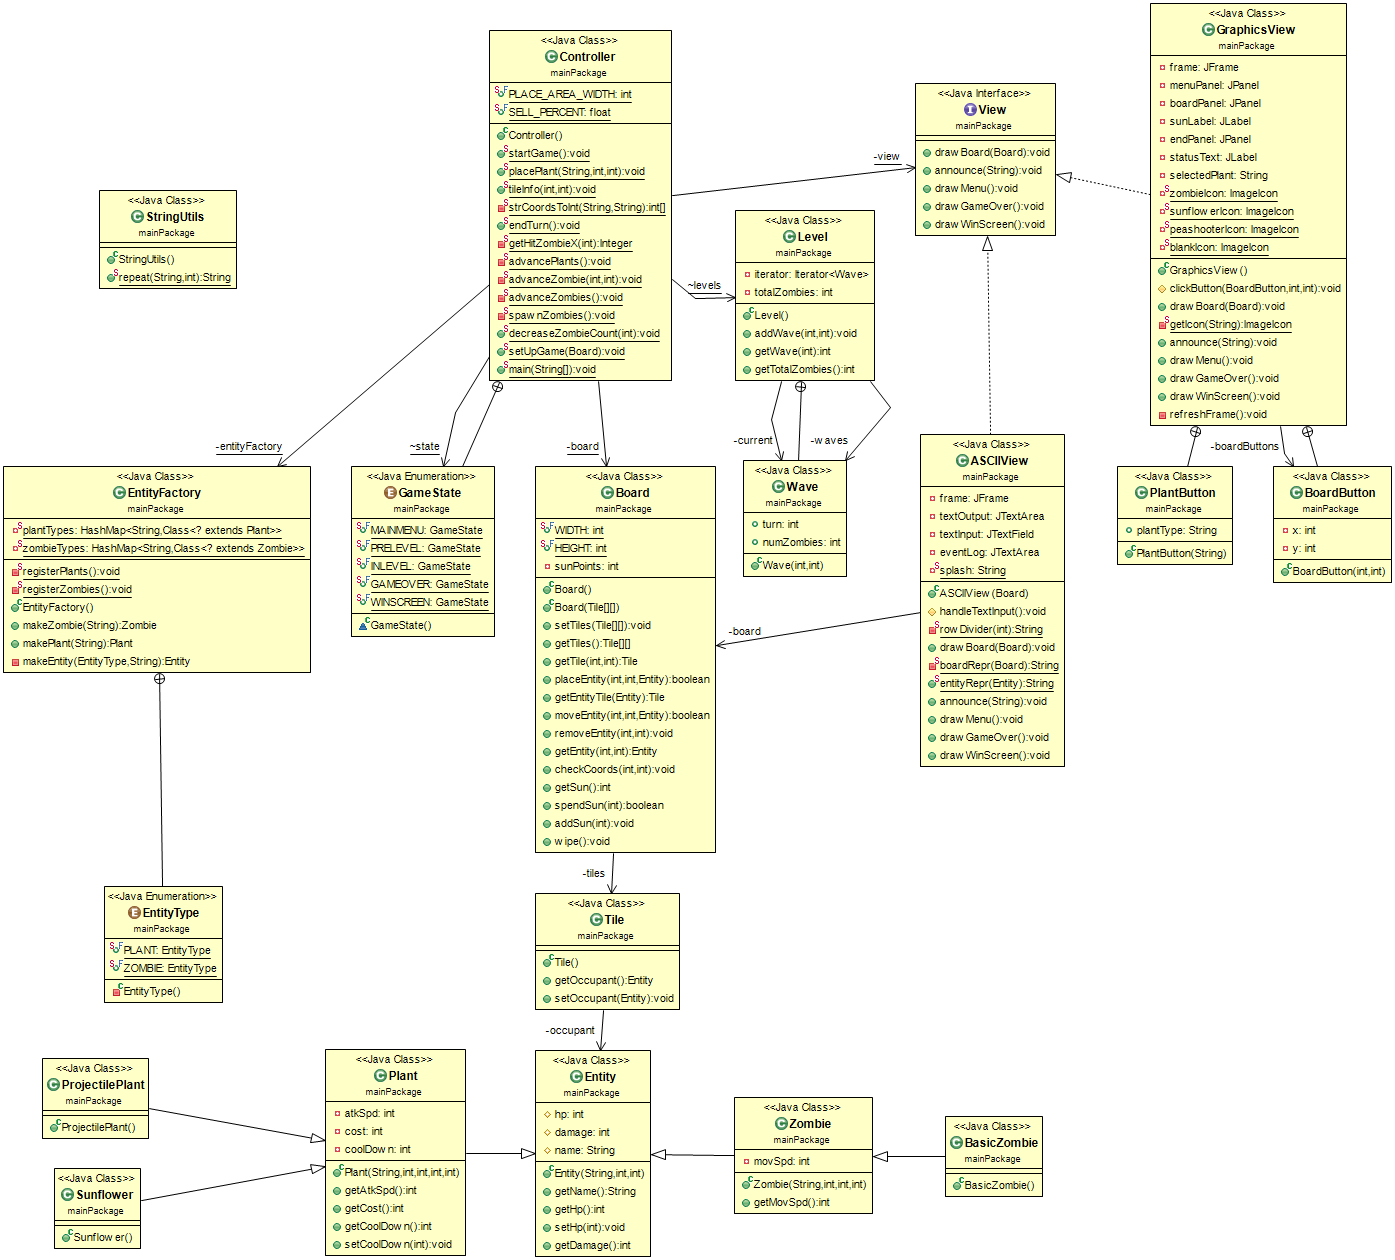
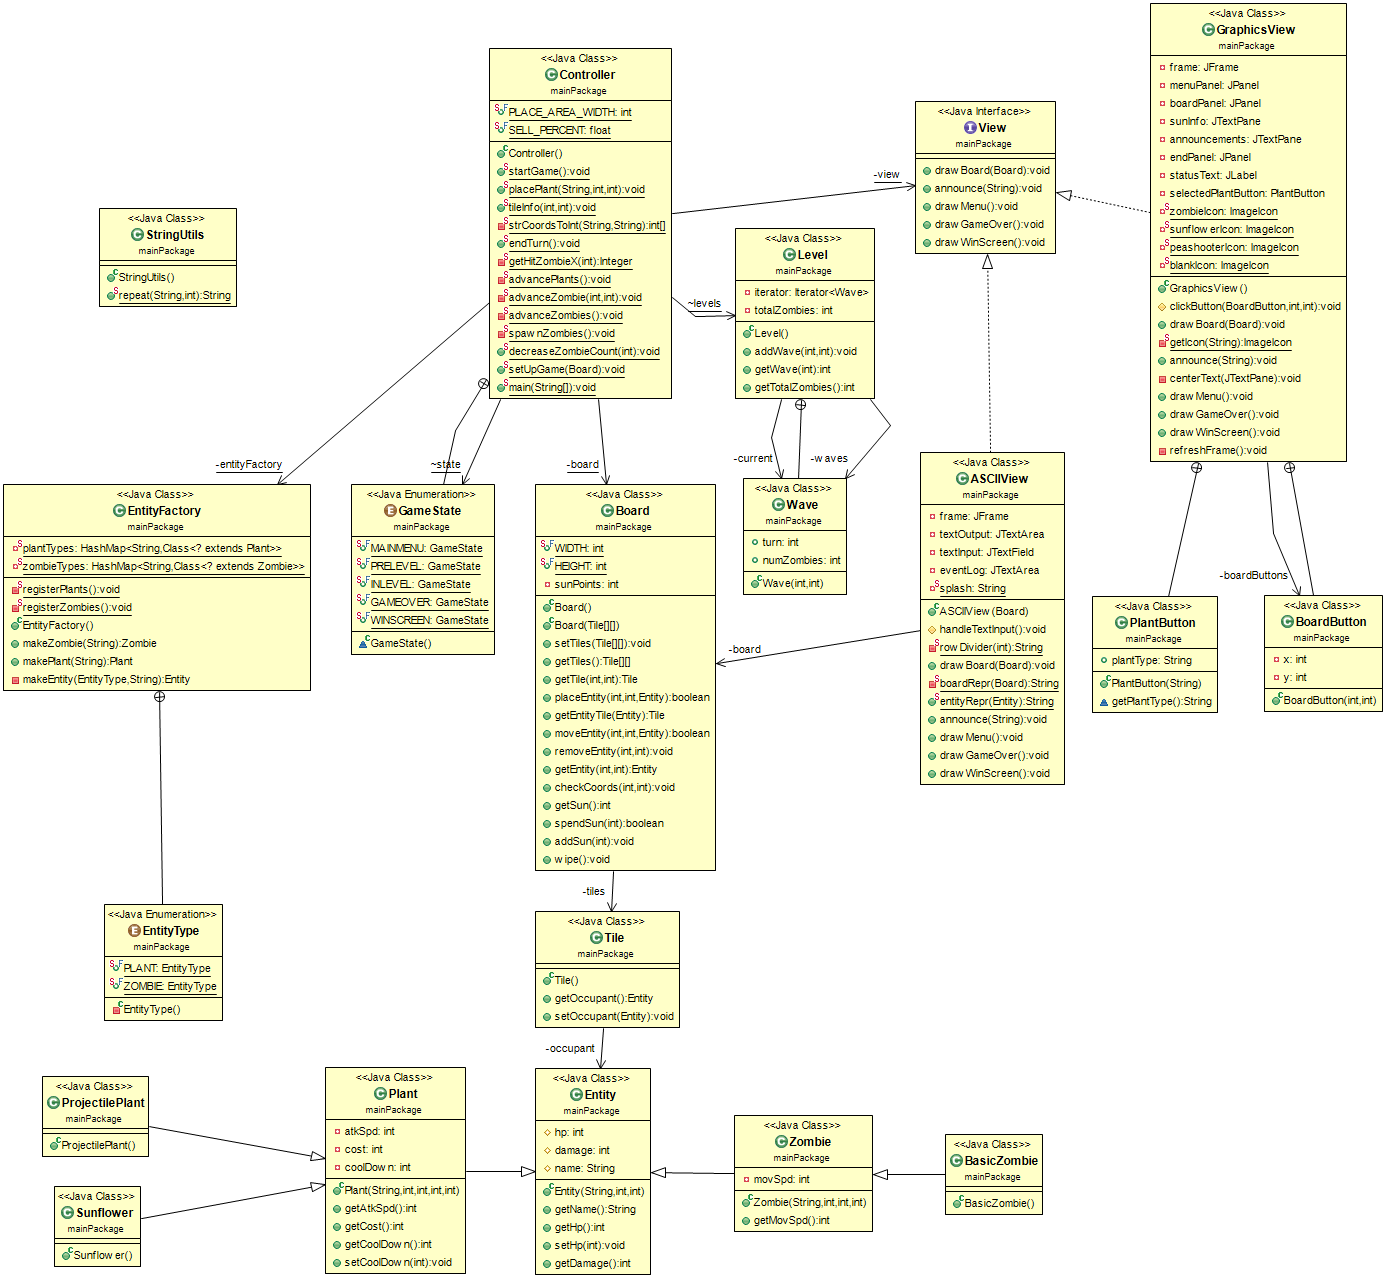
improved GraphicsView

diff --git a/src/mainPackage/GraphicsView.java b/src/mainPackage/GraphicsView.java
@@ -1,12 +1,17 @@
 package mainPackage;
 
 import java.awt.BorderLayout;
+import java.awt.Color;
 import java.awt.Dimension;
 import java.awt.GridLayout;
 import java.awt.event.ActionEvent;
 import java.awt.event.ActionListener;
 
 import javax.swing.*;
+import javax.swing.border.LineBorder;
+import javax.swing.text.SimpleAttributeSet;
+import javax.swing.text.StyleConstants;
+import javax.swing.text.StyledDocument;
 
 public class GraphicsView implements View
 {
@@ -15,11 +20,12 @@ public class GraphicsView implements View
 	
 	private JPanel boardPanel;
 	private BoardButton[][] boardButtons;
-	private JLabel sunLabel;
+	private JTextPane sunInfo;
+	private JTextPane announcements;
 	
 	private JPanel endPanel;
 	private JLabel statusText;
-	private String selectedPlant;
+	private PlantButton selectedPlantButton;
 	
 	private static ImageIcon zombieIcon = new ImageIcon("images/zombie.png");
 	private static ImageIcon sunflowerIcon = new ImageIcon("images/sunflower.png");
@@ -70,6 +76,8 @@ public class GraphicsView implements View
 			}
 			setIcon(GraphicsView.getIcon(plantType));
 			
+			PlantButton thisButton = this;
+			
 			addActionListener(new ActionListener()
 			{
 				
@@ -77,13 +85,24 @@ public class GraphicsView implements View
 				public void actionPerformed(ActionEvent e)
 				{
 					// TODO Auto-generated method stub
-					if (selectedPlant == plantType) {
-						selectedPlant = null;
+					if (selectedPlantButton != null) {
+						selectedPlantButton.setBorder(new LineBorder(Color.GRAY));
+					}
+					if (selectedPlantButton == thisButton) {
+						selectedPlantButton = null;
 					} else {
-						selectedPlant = plantType;
+						selectedPlantButton = thisButton;
+						thisButton.setBorder(BorderFactory.createLineBorder(Color.BLACK, 3));
 					}
 				}
 			});
+		}
+		
+		/*
+		 * @return the plant type for this PlantButton
+		 */
+		String getPlantType() {
+			return plantType;
 		}
 	}
 	
@@ -110,7 +129,7 @@ public class GraphicsView implements View
 				public void actionPerformed(ActionEvent e)
 				{
 					Controller.startGame();
-					
+					frame.setSize(new Dimension(960,650)); //pretty weird but if we don't resize then the size of the frame is all messed up... calling frame.pack() is supposed to fix this but for some reason it doesn't
 				}
 			});
 			
@@ -119,6 +138,7 @@ public class GraphicsView implements View
 			
 		// Board panel setup
 			boardPanel = new JPanel();
+			boardPanel.setLayout(new BoxLayout(boardPanel, BoxLayout.PAGE_AXIS));
 
 			// Create a panel that contains the grid of buttons 
 			JPanel gameBoardPanel = new JPanel();
@@ -136,6 +156,15 @@ public class GraphicsView implements View
 			
 			boardPanel.add(gameBoardPanel);
 			
+			JPanel controlsAndInfoPanel = new JPanel(); //for the buttons and announcement
+			controlsAndInfoPanel.setLayout(new BoxLayout(controlsAndInfoPanel, BoxLayout.PAGE_AXIS));
+			
+			sunInfo = new JTextPane();
+			sunInfo.setEditable(false);
+			sunInfo.setOpaque(false);
+			sunInfo.setContentType("text/html");
+			controlsAndInfoPanel.add(sunInfo);
+			
 			JButton endTurnButton = new JButton("End turn");
 			endTurnButton.addActionListener(new ActionListener()
 			{
@@ -145,21 +174,25 @@ public class GraphicsView implements View
 					Controller.endTurn();
 				}
 			});
-			boardPanel.add(endTurnButton);
 			
 			// Create a panel to hold the buttons that choose which seed to plant
-			JPanel plantPanel = new JPanel();
+			JPanel controlsPanel = new JPanel();
+			controlsPanel.add(endTurnButton);
 			
 			PlantButton sunflowerButton = new PlantButton("sunflower");
-			plantPanel.add(sunflowerButton);
+			controlsPanel.add(sunflowerButton);
 			
 			PlantButton projButton = new PlantButton("proj");
-			plantPanel.add(projButton);
+			controlsPanel.add(projButton);
 			
-			boardPanel.add(plantPanel, BorderLayout.SOUTH);
+			controlsAndInfoPanel.add(controlsPanel);
 			
-			sunLabel = new JLabel("THIS TEXT SHOULD NOT BE SEEN");
-			boardPanel.add(sunLabel);
+			announcements = new JTextPane();
+			announcements.setEditable(false);
+			announcements.setOpaque(false);
+			controlsAndInfoPanel.add(announcements);
+			
+			boardPanel.add(controlsAndInfoPanel, BorderLayout.SOUTH);
 
 		// End screen panel setup
 			endPanel = new JPanel();
@@ -188,11 +221,10 @@ public class GraphicsView implements View
 	 */
 	protected void clickButton(BoardButton button, int x, int y)
 	{
-		if (selectedPlant == null) {
+		if (selectedPlantButton == null) {
 			Controller.tileInfo(x, y);
 		} else {
-			Controller.placePlant(selectedPlant, x, y);
-			selectedPlant = null;
+			Controller.placePlant(selectedPlantButton.getPlantType(), x, y);
 		}
 	}
 
@@ -226,11 +258,11 @@ public class GraphicsView implements View
 			}
 		}
 		
-		sunLabel.setText("Sun: "+board.getSun());
+		sunInfo.setText("<b>Sun: " + board.getSun() + "</b>"); //its kind of ugly but the easiest way to bold is with html tags
+		centerText(sunInfo);
 		
 		System.out.println("Updated View!");
 		refreshFrame();
-
 	}
 	
 	/**
@@ -253,7 +285,19 @@ public class GraphicsView implements View
 	@Override
 	public void announce(String message)
 	{
-		System.out.println(message);
+		announcements.setText(message);
+		centerText(announcements);
+	}
+	
+	/*
+	 * Centers text
+	 * @param pane the JTextPane to center text in
+	 */
+	private void centerText(JTextPane pane) {
+		StyledDocument text = pane.getStyledDocument();
+		SimpleAttributeSet center = new SimpleAttributeSet();
+		StyleConstants.setAlignment(center, StyleConstants.ALIGN_CENTER);
+		text.setParagraphAttributes(0, text.getLength(), center, false);
 	}
 
 	@Override
@@ -292,8 +336,8 @@ public class GraphicsView implements View
 	 * Redraws and resizes the JFrame 
 	 */
 	private void refreshFrame() {
-		frame.pack();
 		frame.revalidate();
+		frame.pack();
 	}
 
 }
